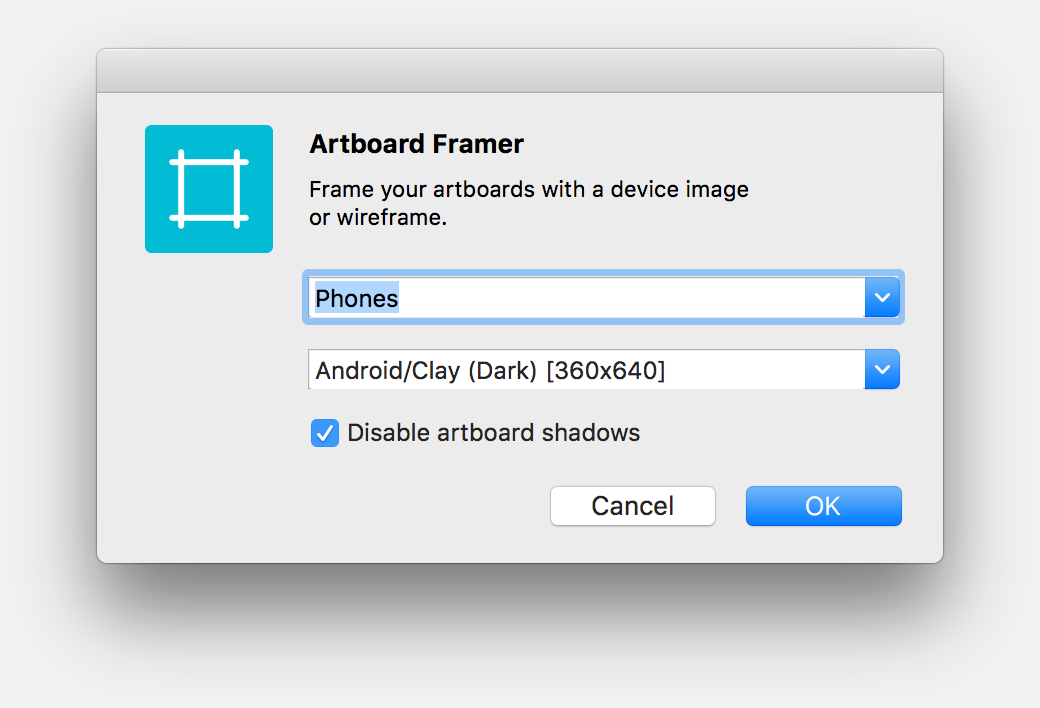
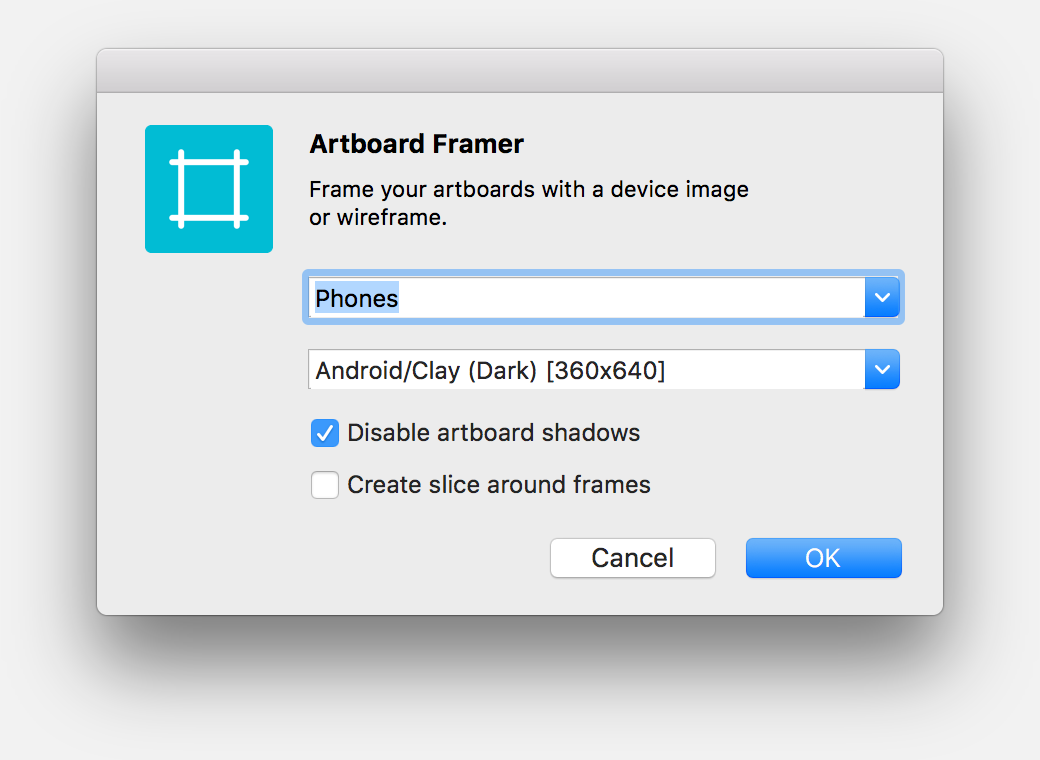
Added functionality to create a slice around artboard frames.

Changed region(s): [[0.0923, 0.1243, 0.9231, 0.6525], [0.0923, 0.6836, 0.9231, 0.8079], [0.5231, 0.6836, 0.6769, 0.7458]]

diff --git a/README.md b/README.md
@@ -39,6 +39,7 @@ To find your plugins directory...
 
 # Changelog
 
+* **0.5** - Added functionality to create a slice around artboard frames.
 * **0.4** - Added some tablet devices and iPhone SE, and improved device selection & information in plugin dialog.
 * **0.3** - Added new devices for iPhone Plus and Sony TV.
 * **0.2** - Fix for using different frame types on the same page.
